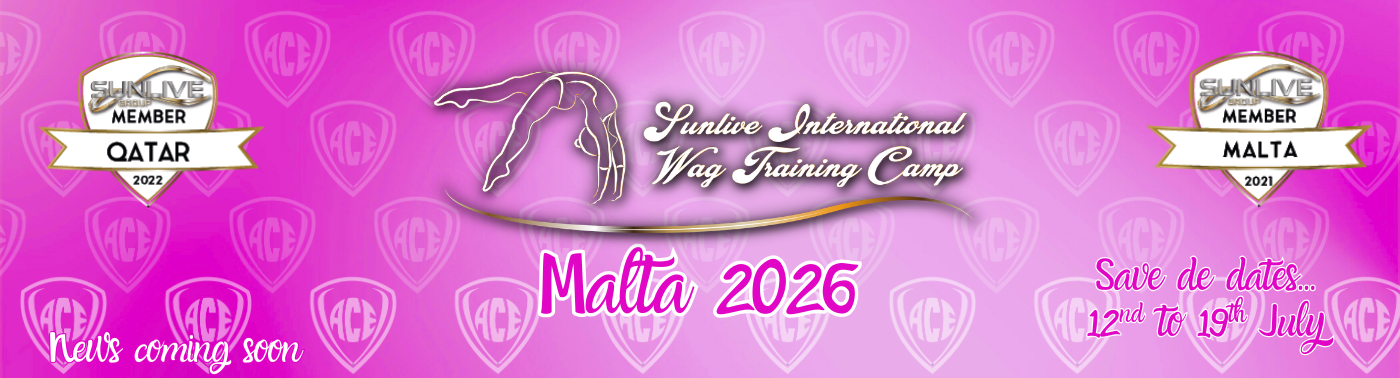
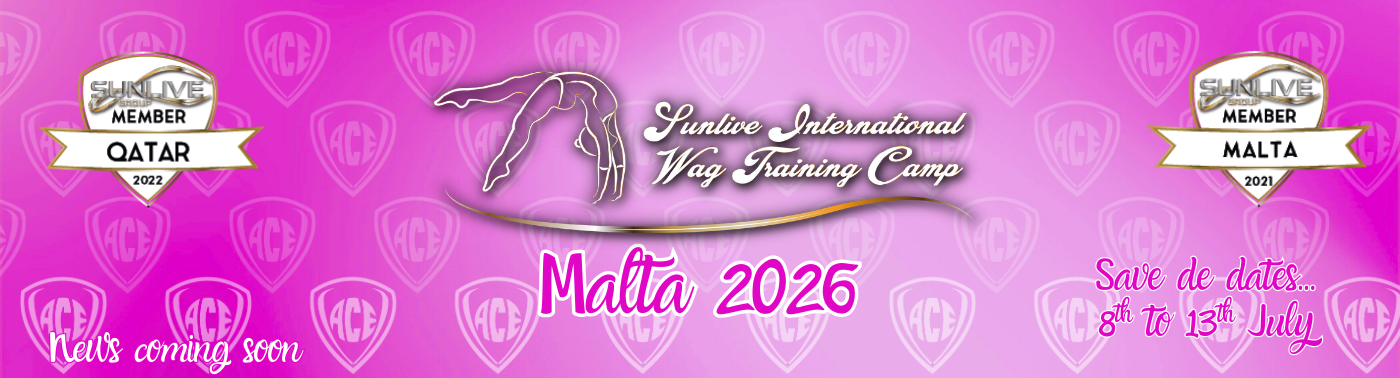
update

Changed region(s): [[0.7679, 0.7857, 0.9521, 0.9603]]

diff --git a/src/config/content/malta.content.js b/src/config/content/malta.content.js
@@ -193,7 +193,7 @@ export const maltaContent = {
     websiteUrl: "https://gymstarsmalta.com",
   },
 
-  // 🔹 SECÇÃO DE PROGRAMA
+  // 🔹 SECÇÃO DE PROGRAMA (ATUALIZADA: 8 a 13 de July)
   programSection: {
     id: "program",
     banner: {
@@ -206,9 +206,10 @@ export const maltaContent = {
     schedule: {
       id: "program-schedule",
       columns: [
+        // (era SUNDAY, JULY 12)
         {
-          id: "sunday-july-12",
-          title: "» SUNDAY, JULY 12",
+          id: "wednesday-july-08",
+          title: "» WEDNESDAY, JULY 8",
           items: [
             { time: "", description: "Hotel Check-in: Topaz Hotel" },
             { time: "", description: "Breakfast & Lunch" },
@@ -229,9 +230,10 @@ export const maltaContent = {
           ],
         },
 
+        // (era MONDAY, JULY 13)
         {
-          id: "monday-july-13",
-          title: "» MONDAY, JULY 13",
+          id: "thursday-july-09",
+          title: "» THURSDAY, JULY 9",
           items: [
             { time: "7:15", description: "Breakfast" },
             { time: "8:00", description: "Transport to Gym" },
@@ -256,9 +258,10 @@ export const maltaContent = {
           ],
         },
 
+        // (era TUESDAY, JULY 14)
         {
-          id: "tuesday-july-14",
-          title: "» TUESDAY, JULY 14",
+          id: "friday-july-10",
+          title: "» FRIDAY, JULY 10",
           items: [
             { time: "7:15", description: "Breakfast" },
             { time: "8:00", description: "Transport to Gym" },
@@ -278,9 +281,10 @@ export const maltaContent = {
           ],
         },
 
+        // (era WEDNESDAY, JULY 15)
         {
-          id: "wednesday-july-15",
-          title: "» WEDNESDAY, JULY 15",
+          id: "saturday-july-11",
+          title: "» SATURDAY, JULY 11",
           items: [
             { time: "7:15", description: "Breakfast" },
             { time: "8:00", description: "Transport to Gym" },
@@ -300,9 +304,10 @@ export const maltaContent = {
           ],
         },
 
+        // (era THURSDAY, JULY 16)
         {
-          id: "thursday-july-16",
-          title: "» THURSDAY, JULY 16",
+          id: "sunday-july-12",
+          title: "» SUNDAY, JULY 12",
           items: [
             { time: "7:15", description: "Breakfast" },
             { time: "8:00", description: "Transport to Gym" },
@@ -322,9 +327,10 @@ export const maltaContent = {
           ],
         },
 
+        // (era FRIDAY, JULY 17)
         {
-          id: "friday-july-17",
-          title: "» FRIDAY, JULY 17",
+          id: "monday-july-13",
+          title: "» MONDAY, JULY 13",
           items: [
             { time: "7:15", description: "Breakfast" },
             { time: "8:00", description: "Transport to Gym" },
@@ -337,45 +343,6 @@ export const maltaContent = {
               time: "19:30",
               description:
                 "FAREWELL FINAL DINNER & Presentation of Diplomas to Gymnasts/Coaches & Q/A session with expert coaches",
-            },
-            {
-              time: "",
-              description: "To be defined later",
-              isPlaceholder: true,
-            },
-          ],
-        },
-
-        {
-          id: "saturday-july-18",
-          title: "» SATURDAY, JULY 18",
-          items: [
-            {
-              time: "7:15",
-              description:
-                "Breakfast & Check-out (for those departing on Saturday)",
-            },
-            { time: "8:00", description: "Transport to Gym" },
-            {
-              time: "8:45 - 11:40",
-              description: "Gymnasts’ Presentation & Photos",
-            },
-            { time: "11:45", description: "Transport to Hotel" },
-            {
-              time: "",
-              description: "To be defined later",
-              isPlaceholder: true,
-            },
-          ],
-        },
-
-        {
-          id: "sunday-july-19",
-          title: "» SUNDAY, JULY 19",
-          items: [
-            {
-              time: "",
-              description: "DEPARTURES",
             },
             {
               time: "",
@@ -525,7 +492,7 @@ export const maltaContent = {
       {
         id: "contacts",
         title: "Contacts",
-        lines: ["@: events@sunlive.pt", "M: (+356) 99 164 245"],
+        lines: ["@:  malta@sunlive.pt", "M: (+356) 99 164 245"],
       },
       {
         id: "links",

diff --git a/src/pages/malta/Malta.jsx b/src/pages/malta/Malta.jsx
@@ -10,11 +10,10 @@ import MaltaCoachingTeamSection from "./components/MaltaCoachingTeamSection.jsx"
 import MaltaProgramSection from "./components/MaltaProgramSection.jsx";
 import MaltaGymStarsSection from "./components/MaltaGymStarsSection.jsx";
 import MaltaContentSection from "./components/MaltaContentSection.jsx";
-import MaltaHotelSection from "./components/MaltaHotelSection.jsx";
+// import MaltaHotelSection from "./components/MaltaHotelSection.jsx";
 import { MaltaLogosSection } from "./components/MaltaLogosSection.jsx";
 import { MaltaContactsSection } from "./components/MaltaContactsSection.jsx";
 import { MaltaFooter } from "./components/MaltaFooter.jsx";
-
 
 export default function MaltaPage() {
   return (
@@ -27,10 +26,10 @@ export default function MaltaPage() {
       <MaltaProgramSection />
       <MaltaGymStarsSection />
       <MaltaContentSection />
-      <MaltaHotelSection />
+      {/* <MaltaHotelSection /> */}
       <MaltaSunliveSection />
       <MaltaLogosSection />
-      <MaltaContactsSection/>
+      <MaltaContactsSection />
       <MaltaFooter />
 
       <ScrollToTopButton />

diff --git a/src/config/content/home.content.js b/src/config/content/home.content.js
@@ -53,7 +53,7 @@ export const homeContent = {
         id: "email-malta",
         title: "Email",
         group: "malta",
-        link: { href: "mailto:events@sunlive.pt", label: "events@sunlive.pt" },
+        link: { href: "mailto: malta@sunlive.pt", label: "malta@sunlive.pt" },
       },
       {
         id: "phone-malta",
